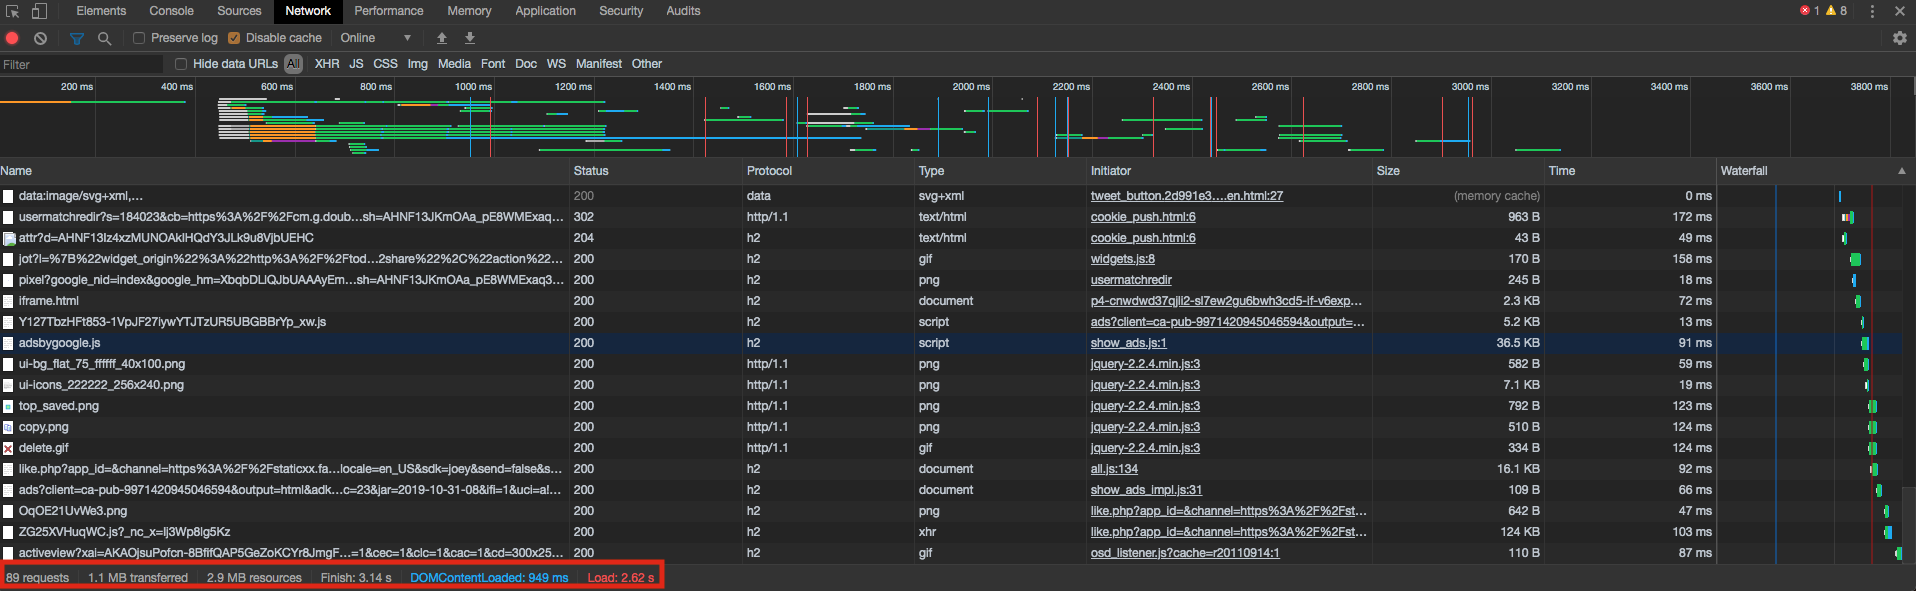
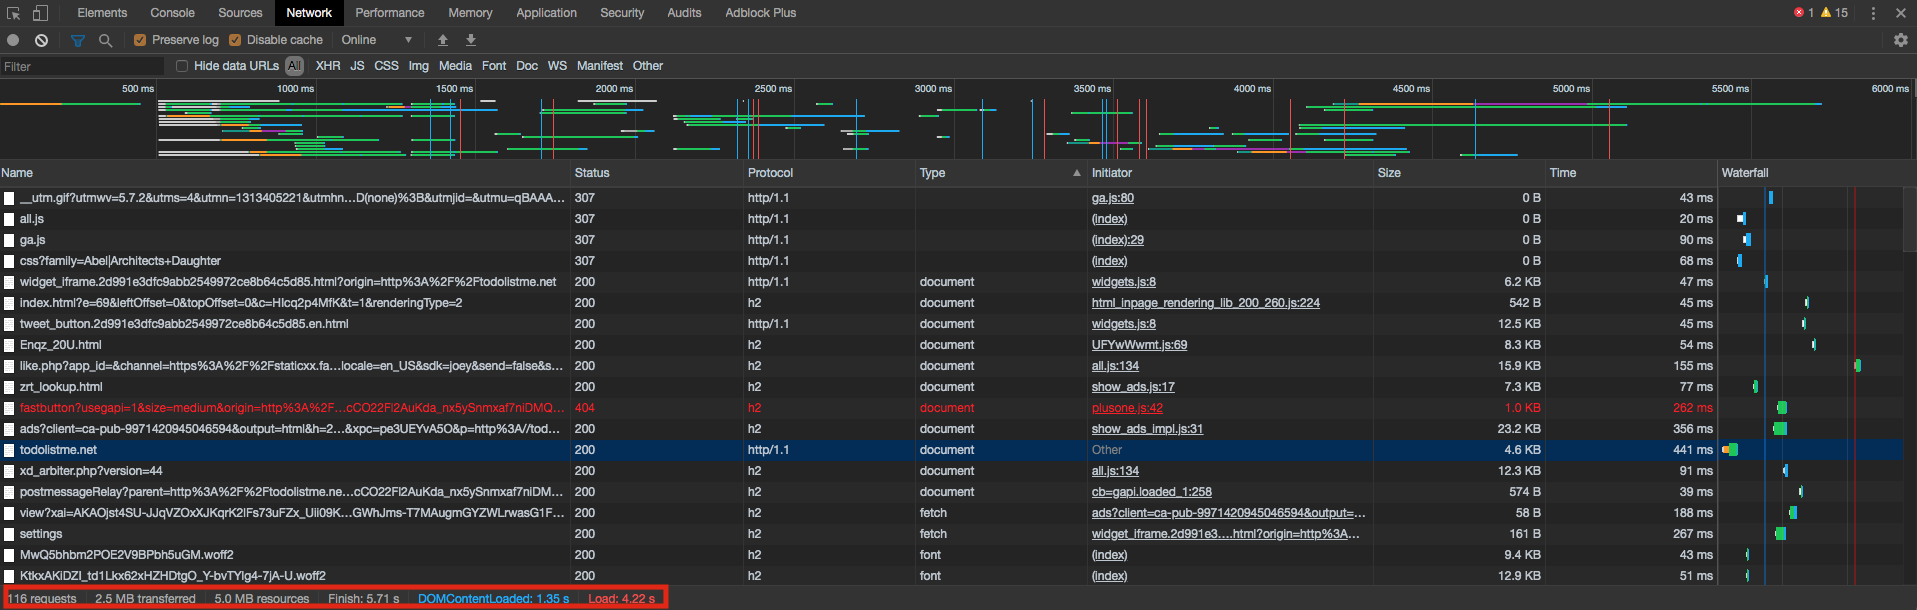
add doc in benchmarking.md, network doc almost finished

diff --git a/docs/manual/index.html b/docs/manual/index.html
@@ -152,17 +152,28 @@
 <li>set a due date for tasks</li>
 <li>syncing option, to share or synchronise your todos with friends or multiple devices</li>
 <li>remote option, to open the todo list in a small new window</li>
-</ul><h3>Technology lookup</h3><p><img src="/images/benchmarking/technology_lookup.png" alt="Technology lookup"></p><p><em>generate with <a href="https://www.wappalyzer.com/">Wappalizer</a></em></p><h2>Performance</h2><p>The test performance compare <strong><a href="http://todolistme.net/">todolistme.net</a></strong> and your <strong><a href="https://todos.mokokom.com/">to-do list</a></strong> app.</p><p>Details of the performance testing</p><p><strong>Navigator</strong>: Google Chrome Version 78.0.3904.70</p><p><strong>Parameters</strong>:</p><ul>
-<li>incognito mode</li>
-<li>disabled cache</li>
-<li>default online connection</li>
-</ul><p><strong>Tools</strong>:</p><ol>
-<li>Chrome DevTools:<ul>
-<li>Network</li>
-<li>Coverage</li>
-</ul>
-</li>
-</ol><h3>Network</h3><table>
+</ul><h3>Technology lookup</h3><p><img src="/images/benchmarking/technology_lookup.png" alt="Technology lookup"></p><p><em>generate with <a href="https://www.wappalyzer.com/">Wappalizer</a></em></p><h2>Performance</h2><p>The test performance compare <strong><a href="http://todolistme.net/">todolistme.net</a></strong> and your <strong><a href="https://todos.mokokom.com/">to-do list</a></strong> app.</p><p>Details of the performance testing</p><table>
+<thead>
+<tr>
+<th>title</th>
+<th>infos</th>
+</tr>
+</thead>
+<tbody>
+<tr>
+<td><strong>Navigator</strong></td>
+<td>Google Chrome Version 78.0.3904.70</td>
+</tr>
+<tr>
+<td><strong>Parameters</strong></td>
+<td>- incognito mode<br> - disabled cache <br> - default online connection</td>
+</tr>
+<tr>
+<td><strong>Tools</strong></td>
+<td>1. Chrome DevTools <br> - Network <br> - Coverage</td>
+</tr>
+</tbody>
+</table><h3>Network</h3><table>
 <thead>
 <tr>
 <th></th>
@@ -172,40 +183,40 @@
 <tbody>
 <tr>
 <td><br><strong>requests</strong>: 13 <br><strong>transfered</strong>: 16.1KB <br><strong>ressources</strong>: 46.3KB <br><strong>finish</strong>: 397ms <br><strong>DOMContentLoaded</strong>: 410ms <br><strong>loaded</strong>: 409ms</td>
-<td><img src="/images/benchmarking/todos_overwall_network.png" alt="Technology lookup"></td>
+<td><img src="/images/benchmarking/todos_overwall_network.png" alt="Technology lookup"> <br></td>
 </tr>
 <tr>
 <td>Note</td>
-<td>Everything seem to works find and load in time. On issue with <code>onlearn.json</code></td>
+<td>Everything seem to works find and load in time. One HTTP communication protocol error with <code>onlearn.json</code> <br></td>
 </tr>
 <tr>
 <td><strong>Improvement</strong></td>
-<td>fix issue <code>onlearn.json</code> file</td>
+<td>fix issue <code>onlearn.json</code> file <br></td>
 </tr>
 </tbody>
 </table><table>
 <thead>
 <tr>
 <th></th>
-<th><a href="http://todolistme.net/">todolistme.net</a></th>
+<th><a href="http://todolistme.net/">todolistme.net</a> <br></th>
 </tr>
 </thead>
 <tbody>
 <tr>
-<td><br><strong>requests</strong>: 89 <br><strong>transfered</strong>: 1.1MB <br><strong>ressources</strong>: 2.9MB <br><strong>finish</strong>: 3.14s <br><strong>DOMContentLoaded</strong>: 949ms <br><strong>loaded</strong>: 2.62s</td>
-<td><img src="/images/benchmarking/todolistme_overall_network.png" alt="Technology lookup"></td>
+<td><br><strong>requests</strong>: 116 <br><strong>transfered</strong>: 2.5MB <br><strong>ressources</strong>: 5.0MB <br><strong>finish</strong>: 5.71s <br><strong>DOMContentLoaded</strong>: 1.35s <br><strong>loaded</strong>: 4.22s</td>
+<td><img src="/images/benchmarking/todolistme_overall_network.png" alt="Technology lookup"> <br></td>
 </tr>
 <tr>
 <td>Note 1</td>
-<td>png files (texture.png load in 1.08s!), ads and <code>jquery-ui.js</code> slow down site&apos;s loading. see below: <br> <img src="/images/benchmarking/loading_content_todolistme.png" alt="loading content todolistme"> <br></td>
+<td><br> png files (texture.png load in 1.08s!), ads and <code>jquery-ui.js</code> slow down site&apos;s loading. see below: <br> <img src="/images/benchmarking/loading_content_todolistme.png" alt="loading content todolistme"> <br></td>
 </tr>
 <tr>
 <td>Note 2</td>
-<td>coverage tool show that only 95,6% of jQuery and 97.2% of jquery-ui is used <br> <img src="/images/benchmarking/jquery_coverage.png" alt="jQuery coverage"></td>
+<td><br> coverage tool show that only 95,6% of jQuery and 97.2% of jquery-ui is used <br> <img src="/images/benchmarking/jquery_coverage.png" alt="jQuery coverage"> <br></td>
 </tr>
 <tr>
 <td><strong>Improvements</strong></td>
-<td><br> - optimization of png files (ex: replace texture.png background with CSS background or SVG ) <br> - block ads <br> - ES6 instead of jQuery <br> - integrated only useful jquery-ui functions <br> - use cache</td>
+<td><br> - optimization of png files (ex: replace texture.png background with CSS background or SVG ) <br> - block ads <br> - ES6 instead of jQuery <br> - integrated only useful jquery-ui functions <br> - use cache <br></td>
 </tr>
 </tbody>
 </table><h3>Audit</h3><p>notes comparaison:</p><ul>

diff --git a/docs/manual/benchmarking.html b/docs/manual/benchmarking.html
@@ -90,21 +90,28 @@
 <p><em>generate with <a href="https://www.wappalyzer.com/">Wappalizer</a></em></p>
 <h2 id="performance">Performance</h2><p>The test performance compare <strong><a href="http://todolistme.net/">todolistme.net</a></strong> and your <strong><a href="https://todos.mokokom.com/">to-do list</a></strong> app.</p>
 <p>Details of the performance testing</p>
-<p><strong>Navigator</strong>: Google Chrome Version 78.0.3904.70</p>
-<p><strong>Parameters</strong>:</p>
-<ul>
-<li>incognito mode</li>
-<li>disabled cache</li>
-<li>default online connection</li>
-</ul>
-<p><strong>Tools</strong>:</p>
-<ol>
-<li>Chrome DevTools:<ul>
-<li>Network</li>
-<li>Coverage</li>
-</ul>
-</li>
-</ol>
+<table>
+<thead>
+<tr>
+<th>title</th>
+<th>infos</th>
+</tr>
+</thead>
+<tbody>
+<tr>
+<td><strong>Navigator</strong></td>
+<td>Google Chrome Version 78.0.3904.70</td>
+</tr>
+<tr>
+<td><strong>Parameters</strong></td>
+<td>- incognito mode<br> - disabled cache <br> - default online connection</td>
+</tr>
+<tr>
+<td><strong>Tools</strong></td>
+<td>1. Chrome DevTools <br> - Network <br> - Coverage</td>
+</tr>
+</tbody>
+</table>
 <h3 id="network">Network</h3><table>
 <thead>
 <tr>
@@ -115,15 +122,15 @@
 <tbody>
 <tr>
 <td><br><strong>requests</strong>: 13 <br><strong>transfered</strong>: 16.1KB <br><strong>ressources</strong>: 46.3KB <br><strong>finish</strong>: 397ms <br><strong>DOMContentLoaded</strong>: 410ms <br><strong>loaded</strong>: 409ms</td>
-<td><img src="/images/benchmarking/todos_overwall_network.png" alt="Technology lookup"></td>
+<td><img src="/images/benchmarking/todos_overwall_network.png" alt="Technology lookup"> <br></td>
 </tr>
 <tr>
 <td>Note</td>
-<td>Everything seem to works find and load in time. On issue with <code>onlearn.json</code></td>
+<td>Everything seem to works find and load in time. One HTTP communication protocol error with <code>onlearn.json</code> <br></td>
 </tr>
 <tr>
 <td><strong>Improvement</strong></td>
-<td>fix issue <code>onlearn.json</code> file</td>
+<td>fix issue <code>onlearn.json</code> file <br></td>
 </tr>
 </tbody>
 </table>
@@ -131,25 +138,25 @@
 <thead>
 <tr>
 <th></th>
-<th><a href="http://todolistme.net/">todolistme.net</a></th>
+<th><a href="http://todolistme.net/">todolistme.net</a> <br></th>
 </tr>
 </thead>
 <tbody>
 <tr>
-<td><br><strong>requests</strong>: 89 <br><strong>transfered</strong>: 1.1MB <br><strong>ressources</strong>: 2.9MB <br><strong>finish</strong>: 3.14s <br><strong>DOMContentLoaded</strong>: 949ms <br><strong>loaded</strong>: 2.62s</td>
-<td><img src="/images/benchmarking/todolistme_overall_network.png" alt="Technology lookup"></td>
+<td><br><strong>requests</strong>: 116 <br><strong>transfered</strong>: 2.5MB <br><strong>ressources</strong>: 5.0MB <br><strong>finish</strong>: 5.71s <br><strong>DOMContentLoaded</strong>: 1.35s <br><strong>loaded</strong>: 4.22s</td>
+<td><img src="/images/benchmarking/todolistme_overall_network.png" alt="Technology lookup"> <br></td>
 </tr>
 <tr>
 <td>Note 1</td>
-<td>png files (texture.png load in 1.08s!), ads and <code>jquery-ui.js</code> slow down site&apos;s loading. see below: <br> <img src="/images/benchmarking/loading_content_todolistme.png" alt="loading content todolistme"> <br></td>
+<td><br> png files (texture.png load in 1.08s!), ads and <code>jquery-ui.js</code> slow down site&apos;s loading. see below: <br> <img src="/images/benchmarking/loading_content_todolistme.png" alt="loading content todolistme"> <br></td>
 </tr>
 <tr>
 <td>Note 2</td>
-<td>coverage tool show that only 95,6% of jQuery and 97.2% of jquery-ui is used <br> <img src="/images/benchmarking/jquery_coverage.png" alt="jQuery coverage"></td>
+<td><br> coverage tool show that only 95,6% of jQuery and 97.2% of jquery-ui is used <br> <img src="/images/benchmarking/jquery_coverage.png" alt="jQuery coverage"> <br></td>
 </tr>
 <tr>
 <td><strong>Improvements</strong></td>
-<td><br> - optimization of png files (ex: replace texture.png background with CSS background or SVG ) <br> - block ads <br> - ES6 instead of jQuery <br> - integrated only useful jquery-ui functions <br> - use cache</td>
+<td><br> - optimization of png files (ex: replace texture.png background with CSS background or SVG ) <br> - block ads <br> - ES6 instead of jQuery <br> - integrated only useful jquery-ui functions <br> - use cache <br></td>
 </tr>
 </tbody>
 </table>

diff --git a/manual/benchmarking.md b/manual/benchmarking.md
@@ -29,34 +29,26 @@ The test performance compare **[todolistme.net](http://todolistme.net/)** and yo
 
 Details of the performance testing
 
-**Navigator**: Google Chrome Version 78.0.3904.70
-
-**Parameters**:
-
-- incognito mode
-- disabled cache
-- default online connection
-
-**Tools**:
-
-1. Chrome DevTools:
-   - Network
-   - Coverage
+| title          | infos                                                                  |
+| -------------- | ---------------------------------------------------------------------- |
+| **Navigator**  | Google Chrome Version 78.0.3904.70                                     |
+| **Parameters** | - incognito mode<br> - disabled cache <br> - default online connection |
+| **Tools**      | 1. Chrome DevTools <br> - Network <br> - Coverage                      |
 
 ### Network
 
-|                                                                                                                                                        | **[to-do list](https://todos.mokokom.com/)**                                                                         |
-| ------------------------------------------------------------------------------------------------------------------------------------------------------ | -------------------------------------------------------------------------------------------------------------------- |
-| <br>**requests**: 13 <br>**transfered**: 16.1KB <br>**ressources**: 46.3KB <br>**finish**: 397ms <br>**DOMContentLoaded**: 410ms <br>**loaded**: 409ms | ![Technology lookup](/images/benchmarking/todos_overwall_network.png)                                                |
-| Note                                                                                                                                                   | Everything seem to works find and load in time. One HTTP communication protocol error with <code>onlearn.json</code> |
-| **Improvement**                                                                                                                                        | fix issue <code>onlearn.json</code> file                                                                             |
+|                                                                                                                                                        | **[to-do list](https://todos.mokokom.com/)**                                                                              |
+| ------------------------------------------------------------------------------------------------------------------------------------------------------ | ------------------------------------------------------------------------------------------------------------------------- |
+| <br>**requests**: 13 <br>**transfered**: 16.1KB <br>**ressources**: 46.3KB <br>**finish**: 397ms <br>**DOMContentLoaded**: 410ms <br>**loaded**: 409ms | ![Technology lookup](/images/benchmarking/todos_overwall_network.png) <br>                                                |
+| Note                                                                                                                                                   | Everything seem to works find and load in time. One HTTP communication protocol error with <code>onlearn.json</code> <br> |
+| **Improvement**                                                                                                                                        | fix issue <code>onlearn.json</code> file <br>                                                                             |
 
-|                                                                                                                                                      | [todolistme.net](http://todolistme.net/)                                                                                                                                                                           |
-| ---------------------------------------------------------------------------------------------------------------------------------------------------- | ------------------------------------------------------------------------------------------------------------------------------------------------------------------------------------------------------------------ |
-| <br>**requests**: 89 <br>**transfered**: 1.1MB <br>**ressources**: 2.9MB <br>**finish**: 3.14s <br>**DOMContentLoaded**: 949ms <br>**loaded**: 2.62s | ![Technology lookup](/images/benchmarking/todolistme_overall_network.png)                                                                                                                                          |
-| Note 1                                                                                                                                               | png files (texture.png load in 1.08s!), ads and <code>jquery-ui.js</code> slow down site's loading. see below: <br> ![loading content todolistme](/images/benchmarking/loading_content_todolistme.png) <br>        |
-| Note 2                                                                                                                                               | coverage tool show that only 95,6% of jQuery and 97.2% of jquery-ui is used <br> ![jQuery coverage](/images/benchmarking/jquery_coverage.png)                                                                      |
-| **Improvements**                                                                                                                                     | <br> - optimization of png files (ex: replace texture.png background with CSS background or SVG ) <br> - block ads <br> - ES6 instead of jQuery <br> - integrated only useful jquery-ui functions <br> - use cache |
+|                                                                                                                                                       | [todolistme.net](http://todolistme.net/) <br>                                                                                                                                                                           |
+| ----------------------------------------------------------------------------------------------------------------------------------------------------- | ----------------------------------------------------------------------------------------------------------------------------------------------------------------------------------------------------------------------- |
+| <br>**requests**: 116 <br>**transfered**: 2.5MB <br>**ressources**: 5.0MB <br>**finish**: 5.71s <br>**DOMContentLoaded**: 1.35s <br>**loaded**: 4.22s | ![Technology lookup](/images/benchmarking/todolistme_overall_network.png) <br>                                                                                                                                          |
+| Note 1                                                                                                                                                | <br> png files (texture.png load in 1.08s!), ads and <code>jquery-ui.js</code> slow down site's loading. see below: <br> ![loading content todolistme](/images/benchmarking/loading_content_todolistme.png) <br>        |
+| Note 2                                                                                                                                                | <br> coverage tool show that only 95,6% of jQuery and 97.2% of jquery-ui is used <br> ![jQuery coverage](/images/benchmarking/jquery_coverage.png) <br>                                                                 |
+| **Improvements**                                                                                                                                      | <br> - optimization of png files (ex: replace texture.png background with CSS background or SVG ) <br> - block ads <br> - ES6 instead of jQuery <br> - integrated only useful jquery-ui functions <br> - use cache <br> |
 
 ### Audit
 
